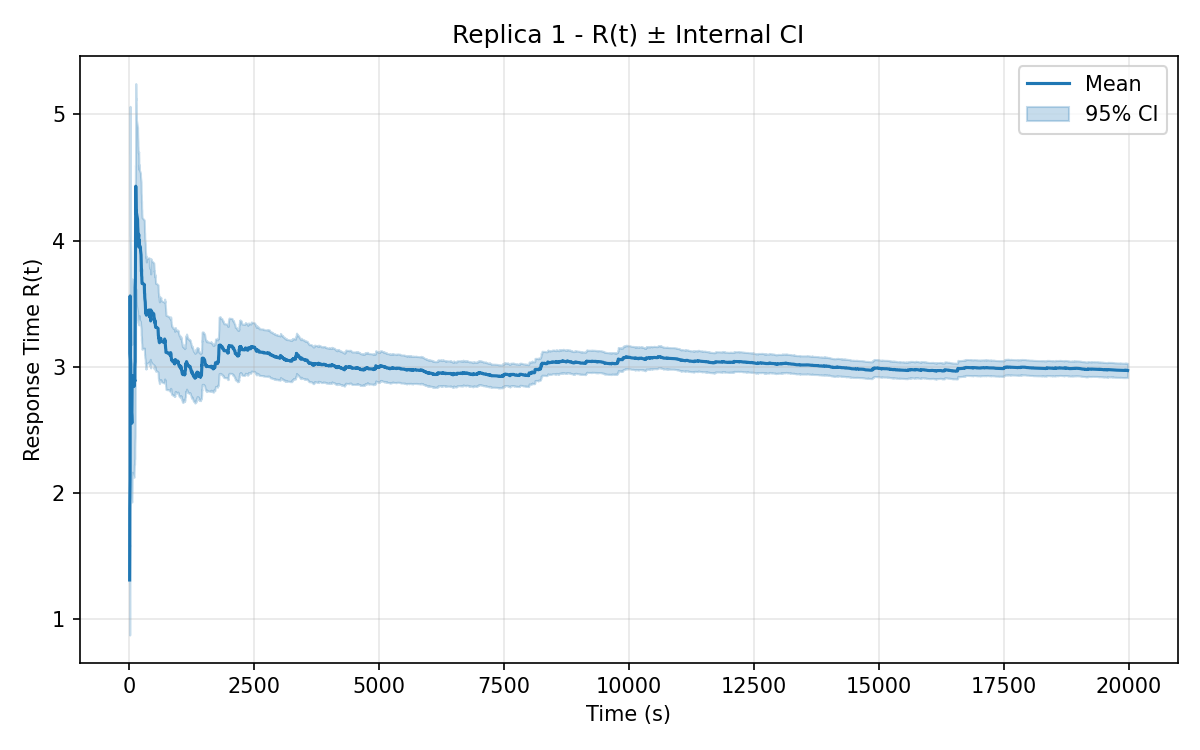
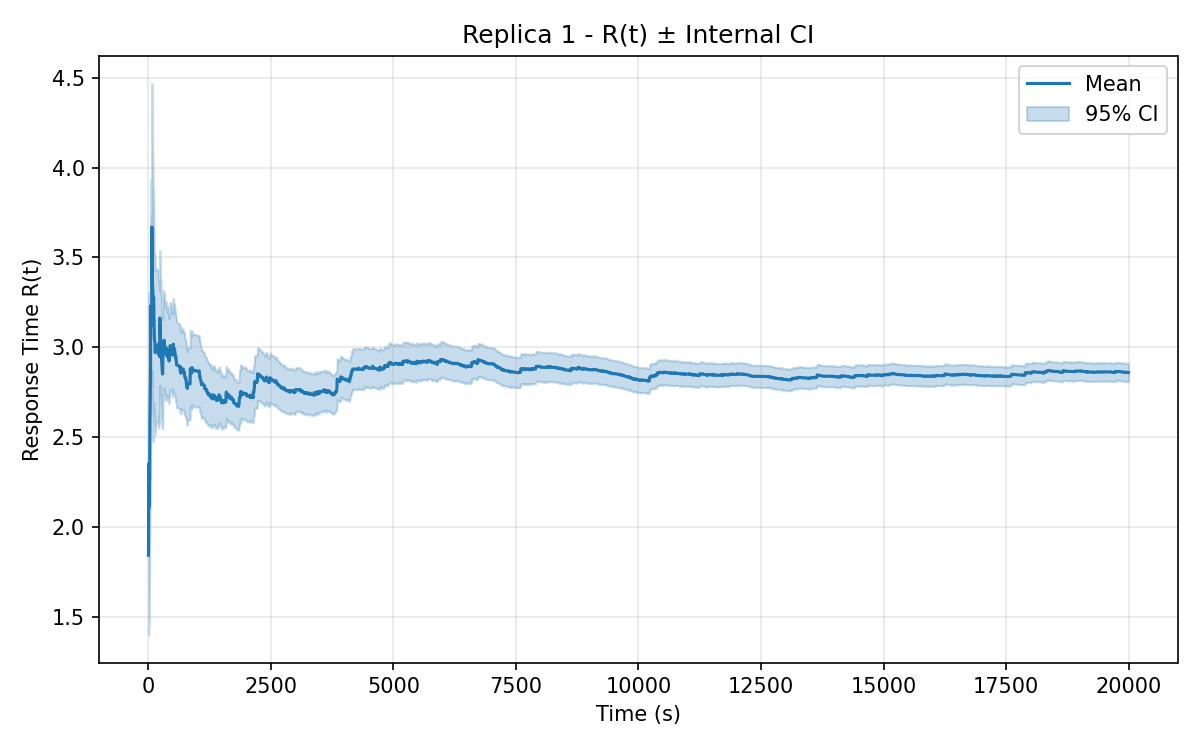
Fix erlang demand call and update output data
Corrected the call to service_dist.demand_erlang in EcommerceModel to include the sname parameter. Updated output CSV and plot files to reflect new simulation results with the corrected demand calculation.

diff --git a/rndbook/service_dist.py b/rndbook/service_dist.py
@@ -23,6 +23,7 @@ Puoi anche ottenere i parametri senza estrarre campioni:
 from typing import Tuple
 import math
 
+from rndbook.rng_setup import use_stream
 # Primitive RNG dal progetto
 from rndbook.rvgs import Erlang, Lognormal
 
@@ -42,13 +43,14 @@ def erlang_params_from_mean(mean: float, k: int) -> Tuple[int, float]:
     return n, b
 
 
-def demand_erlang(mean: float, k: int) -> float:
+def demand_erlang(mean: float, k: int, station: str) -> float:
     """
     Estrae un campione Erlang-k con media 'mean' e SCV=1/k.
     """
     if mean <= 0.0:
         return 0.0
     n, b = erlang_params_from_mean(mean, k)
+    use_stream(f"service_{station}")
     return Erlang(n, b)
 
 
@@ -74,4 +76,5 @@ def demand_lognormal(mean: float, c2: float) -> float:
     if mean <= 0.0:
         return 0.0
     mu, sigma = lognormal_params_from_mean_scv(mean, c2)
+    use_stream("service_B")
     return Lognormal(mu, sigma)

diff --git a/model/ecommerce.py b/model/ecommerce.py
@@ -102,7 +102,7 @@ class EcommerceModel:
                 d = self._exp_demand(sname, class_id)
             elif kindA == "erlang":
                 mean = float(self.scenario.service_demands.get(sname).get(class_id))
-                d = service_dist.demand_erlang(mean,3)
+                d = service_dist.demand_erlang(mean,3,sname)
 
         if sname=="B":
             if kindB == "exp":
@@ -115,7 +115,7 @@ class EcommerceModel:
                 d = self._exp_demand(sname, class_id)
             elif kindP == "erlang":
                 mean = float(self.scenario.service_demands.get(sname).get(class_id))
-                d = service_dist.demand_erlang(mean,3)
+                d = service_dist.demand_erlang(mean,3,sname)
         if d <= 0.0:
             return
 

diff --git a/main.py b/main.py
@@ -3,9 +3,7 @@ from __future__ import annotations
 
 from matplotlib import pyplot as plt
 
-from model.validation.stresstest import plot_stress_transient, plot_step_stress_test, \
-    run_lambda_validation_continuous_rng, \
-    run_batch_means_sweepST
+
 from running_simulator.running_validation import run_phase_validation
 from running_simulator.running_convergence import run_phase_convergence
 from running_simulator.running_steady_state import run_single_lambda_batch_means

diff --git a/rndbook/hyperexp.py b/rndbook/hyperexp.py
@@ -29,7 +29,7 @@ La media risultante è mean, indipendentemente da p.
 Lo SCV vale c^2 = 1/(2 p (1-p)) - 1, ≥ 1.
 """
 from rndbook.rvgs import Exponential, Bernoulli
-from rng_setup import use_stream
+from rndbook.rng_setup import use_stream
 
 
 def hyperexp2(mean: float, p: float) -> float:
